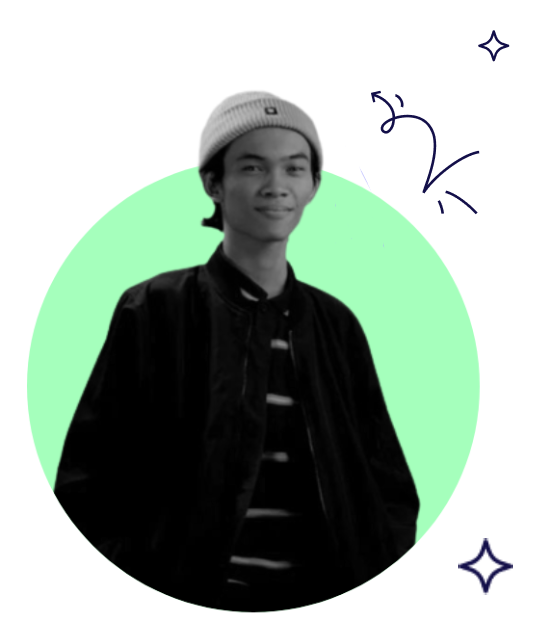
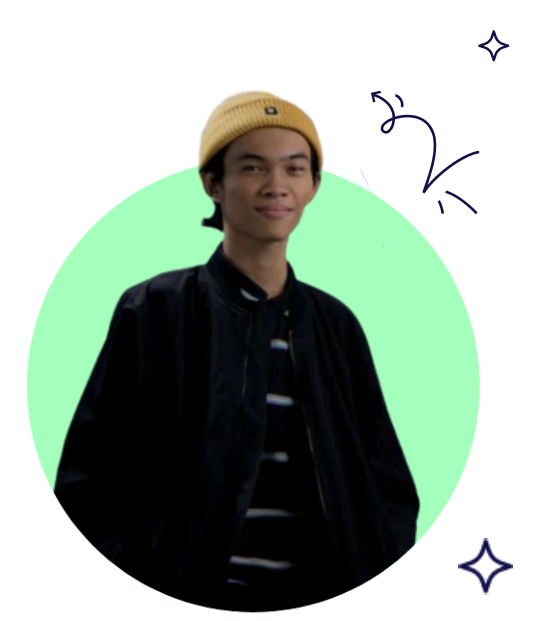
feat: dynamically about page and make toast in contact email

Changed region(s): [[0.3431, 0.1224, 0.5927, 0.4895], [0.4991, 0.6425, 0.5303, 0.6731]]

diff --git a/pages/about.js b/pages/about.js
@@ -2,11 +2,28 @@ import Section from "@/components/section";
 import DefaulTemplate from "@/components/templates/defaults";
 import { Inter } from "next/font/google";
 import Link from "next/link";
+import moment from "moment";
+import { useEffect, useState } from "react";
+import { getAbout, getSettings } from '@/data/singleData';
 
 const inter = Inter({ subsets: ['greek'] })
 
 export default function About()
 {
+    const [setting, setSetting] = useState({})
+    const [about, setAbout] = useState({})
+    useEffect(() => {
+        (async () => {
+            const resSettings = await getSettings();
+            const settings = resSettings.data.data;
+            setSetting(settings.attributes)
+
+            const resAbouts = await getAbout();
+            const abouts    = resAbouts.data.data;
+            setAbout(abouts.attributes);
+        })()
+    }, []);
+
     return <DefaulTemplate page="about" themeColor="white">
         <Section sectionType="white">
             <div className={"grid lg:grid-cols-12 gap-8 mb-[100px] " +  inter.className}>
@@ -17,10 +34,10 @@ export default function About()
                     <Link href={'/contact'} className="btn btn-primary">Got a project</Link>
                 </div>
                 <div className="col-span-6 grid gap-[2rem]">
-                    <p>Hello there! My name is Wikla Pandu. I am a Full-stack Developer & Backend Developer, and I{"'"}m very passionate and dedicated to my work.</p>
-                    <p>
-                    With {"2+"} years experience as a professional a graphic designer, I have acquired the skills and knowledge necessary to make your project a success. I enjoy every step of the design process, from discussion and collaboration.
-                    </p>
+                    {about?.description?.toString().split('\n').map((text, key) => {
+                        text = text.replace('{yearExperience}', moment().diff(moment('2020'), 'year') + '+ years');
+                        return <p key={key}>{text}</p>
+                    })}
                     <table className="table max-xl:hidden">
                         <thead>
                             <tr className="underline uppercase">
@@ -32,11 +49,11 @@ export default function About()
                         </thead>
                         <tbody className="font-bold">
                             <tr>
-                                <td>Jogja</td>
-                                <td>wiklapandu2503@gmail.com</td>
-                                <td>08123123</td>
+                                <td>{setting?.baseIn}</td>
+                                <td>{setting?.email}</td>
+                                <td>{setting?.phone}</td>
                                 <td>
-                                    English, Indonesia, Java
+                                    {setting?.language}
                                 </td>
                             </tr>
                         </tbody>
@@ -45,7 +62,7 @@ export default function About()
             </div>
             <div className="grid lg:grid-cols-3 gap-8">
                 <div className="text-center bg-primary py-[60px]">
-                    <span className="block font-bold text-[40px]">3+</span>
+                    <span className="block font-bold text-[40px]">{moment().diff(moment('2020'), 'year')}+</span>
                     <p className="text-[18px] font-medium">YEARS OF EXPERIENCES</p>
                 </div>
                 <div className="text-center bg-dark text-white py-[60px]">
@@ -66,30 +83,24 @@ export default function About()
                 </div>
             </div>
             <div className="grid lg:grid-cols-2 gap-8">
-                <div className="card min-h-[20vh]">
-                    <div className="card-body">
-                        <div className="flex font-medium">
-                            <span className="text-orange-500">2023 - Now</span>
-                            <span className="text-dark_text_secondary ml-auto">- MADEINDONESIA, Jogja</span>
+                {about?.experiences?.map((experience, key) => {
+                    const signIn = moment(experience?.signIn).format('YYYY');
+                    const resign = experience.resign ? moment(experience?.resign).format('YYYY') : 'Now';
+                    return (
+                        <div key={key} className="card min-h-[20vh]">
+                            <div className="card-body">
+                                <div className="flex font-medium">
+                                    <span className="text-orange-500">{signIn} - {resign}</span>
+                                    <span className="text-dark_text_secondary ml-auto">- {experience?.location}</span>
+                                </div>
+                                <h3 className="font-bold text-dark text-[18px] mb-4">{experience?.roleTitle}</h3>
+                                <p className="text-dark_text_secondary text-[18px] leading-[28px]">
+                                {experience?.description}
+                                </p>
+                            </div>
                         </div>
-                        <h3 className="font-bold text-dark text-[18px] mb-4">Back end Developer</h3>
-                        <p className="text-dark_text_secondary text-[18px] leading-[28px]">
-                        A backend developer is a software engineer who specializes in building and maintaining the server-side components of applications and websites. They work on databases, server logic, and APIs to ensure data processing, security, and performance, enabling seamless interaction between users and the application{"'"}s frontend.
-                        </p>
-                    </div>
-                </div>
-                <div className="card min-h-[20vh]">
-                    <div className="card-body">
-                        <div className="flex font-medium">
-                            <span className="text-orange-500">2022 - 2023</span>
-                            <span className="text-dark_text_secondary ml-auto">- TOOMBOO, Bali</span>
-                        </div>
-                        <h3 className="font-bold text-dark text-[18px] mb-4">Junior Developer</h3>
-                        <p className="text-dark_text_secondary text-[18px] leading-[28px]">
-                        A junior developer is an entry-level software developer who is at the beginning of their career. They typically work under the guidance of more experienced developers or team leads, learning and gaining practical experience in coding, debugging, and collaborating on software projects. Junior developers are often involved in tasks such as writing code, testing, and assisting with various aspects of software development while they build their skills and expertise in the field.
-                        </p>
-                    </div>
-                </div>
+                    )
+                })}
             </div>
         </Section>
     </DefaulTemplate>

diff --git a/components/templates/defaults.js b/components/templates/defaults.js
@@ -5,6 +5,7 @@ import Link from "next/link";
 import Head from "next/head";
 import { useState } from "react";
 import Drawer from "../drawer";
+import { ToastContainer, toast } from "react-toastify";
 
 export default function DefaulTemplate({children, page = 'home', themeColor = 'primary'})
 {
@@ -25,7 +26,7 @@ export default function DefaulTemplate({children, page = 'home', themeColor = 'p
             </div>
             <ul className="navs-link">
                 <li className={(page == 'home') ? "active" : ''}>
-                    <Link href="/">Home</Link>
+                    <Link href={"/"}>Home</Link>
                 </li>
                 <li className={(page == 'about') ? 'active' : ''}><Link href="/about">About</Link></li>
                 <li className={(page == 'services') ? 'active' : ''}><Link href="/services">Services</Link></li>
@@ -38,7 +39,7 @@ export default function DefaulTemplate({children, page = 'home', themeColor = 'p
             <div className="md:col-span-3 md:block hidden border-r border-gray-300 bg-white">
                 <div className="text-center min-h-screen">
                     <div className="image pt-[60px]">
-                        <Image src={'/imgs/1.jpg'} width={150} height={150} className="rounded-full border-4 border-light_text mx-auto mb-4" alt="img"/>
+                        <Image src={'/imgs/profile.png'} width={150} height={150} className="rounded-full border-4 border-light_text mx-auto mb-4" alt="img"/>
                         <h3 className="block text-[30px] font-bold">Wikla Pandu</h3>
                     </div>
                     <ul className="navs-link">
@@ -76,6 +77,7 @@ export default function DefaulTemplate({children, page = 'home', themeColor = 'p
                 {children}
             </div>
         </div>
+        <ToastContainer position={toast.POSITION.BOTTOM_LEFT}/>
         <AnimatedCursor
         innerSize={8}
         outerSize={35}
@@ -84,10 +86,10 @@ export default function DefaulTemplate({children, page = 'home', themeColor = 'p
         outerAlpha={0}
         hasBlendMode={true}
         innerStyle={{
-            backgroundColor: colorSetting.secondary
+            backgroundColor: colorSetting.light_text
           }}
           outerStyle={{
-            border: '3px solid ' + colorSetting.secondary,
+            border: '3px solid ' + colorSetting.light_text,
           }}
           showSystemCursor={true}
         />

diff --git a/components/drawer.js b/components/drawer.js
@@ -1,17 +1,15 @@
-import Image from "next/image";
-import { useState } from "react"
-
-export default function Drawer({children, className, isOpen, onClose})
+export default function Drawer({children, className = '', isOpen, onClose})
 {
+    const drawerFuncClass = isOpen ? 'animate-navbarSlideOpen translate-x-0' : 'animate-navbarSlideClose -translate-x-full';
     return (
         <>
-            <div className={"md:hidden w-[50vw] z-50 flex min-h-screen bg-white shadow-xl fixed top-0 left-0 " + (isOpen ? 'animate-navbarSlideOpen translate-x-0' : 'animate-navbarSlideClose -translate-x-full')}>
+            <div className={"md:hidden w-[50vw] z-50 flex min-h-screen bg-white shadow-xl fixed top-0 left-0 " + drawerFuncClass}>
                 <div className="w-2/3 mx-auto m-4">
                     <div className="flex justify-between items-end text-dark mb-12">
                         <div>
                             <h3 className="text-2xl font-medium">Menu</h3>
                         </div>
-                        <button type="button" className="text-2xl hover:scale-95" onClick={() => onClose(!isOpen)}>
+                        <button type="button" className={"text-2xl hover:scale-95"} onClick={() => onClose(!isOpen)}>
                             <svg
                                 xmlns="http://www.w3.org/2000/svg"
                                 width={24}
@@ -30,7 +28,7 @@ export default function Drawer({children, className, isOpen, onClose})
                     </div>
                 </div>
             </div>
-            <div className={(isOpen && "min-w-screen animate-galleryOpacity bg-black bg-opacity-50 absolute top-0")}></div>
+            <div className={isOpen ? "min-w-screen animate-galleryOpacity bg-black bg-opacity-50 absolute top-0" : ''}></div>
         </>
     )   
 }

diff --git a/pages/index.js b/pages/index.js
@@ -3,6 +3,8 @@ import { Inter } from "next/font/google";
 import DefaulTemplate from "@/components/templates/defaults";
 import Section from "@/components/section";
 import Link from "next/link";
+import { TypeAnimation } from "react-type-animation";
+import moment from "moment";
 
 const inter = Inter({ subsets: ["greek"] });
 
@@ -19,13 +21,25 @@ export default function Home() {
             <div className="title text-[3.5rem] font-bold">
               <h1 className="leading-[3.5rem] text-dark_text">
                 Hi, I{"'"}m <span className="text-light_text">Wikla!</span>
-                <span className="block">Web Developer</span>
+                <span className="block">
+                  <TypeAnimation 
+                  sequence={[
+                    'Backend Developer',
+                    1000,
+                    'And',
+                    500,
+                    'Web Developer',
+                    1000,
+                  ]}
+                  cursor={true}
+                  />
+                </span>
                 <span className="block">Based in Jogja</span>
               </h1>
             </div>
             <p className="my-6 text-dark_text_secondary text-[18px] md:max-w-[400px]">
               I{"'"}m a Jogja, Indonesia based web developer & back{"‑"}end
-              developer with <span className="text-light_text">2+ years</span>{" "}
+              developer with <span className="text-light_text">{moment().diff(moment('2020'), 'years')}+ years</span>{" "}
               of experience
             </p>
             <div className="button-group flex gap-3 mb-[100px]">

diff --git a/components/contact.js b/components/contact.js
@@ -1,5 +1,6 @@
 import { SendContact } from "@/controllers/contact";
 import { useState } from "react";
+import { toast } from "react-toastify";
 
 export default function ContactForm() {
   const [subject, setSubject] = useState('');
@@ -11,7 +12,15 @@ export default function ContactForm() {
   return (
     <form className="lg:w-[50%]" onSubmit={(event) => {
       event.preventDefault();
-      SendContact({subject, email, content, name}, setAlert);
+      const sendMail = SendContact({subject, email, content, name}, setAlert);
+      toast.promise(
+        sendMail,
+        {
+          error: alert.message,
+          pending: '👌 loading....',
+          success: alert.message,
+        }
+      )
       if(alert?.status == 'success') {
         setSubject('')
         setEmail('')

diff --git a/controllers/contact.js b/controllers/contact.js
@@ -1,17 +1,16 @@
 import { ajaxCallPost } from '@/data/func/api';
 
 export const SendContact = (data, setAlert) => {
-    ajaxCallPost('/email', {
+    return ajaxCallPost('/email', {
         subject: data.subject,
         email: data.email,
         name: data.name,
         content: data.content
     }, process.env.TOKEN_MAIL).then((res) => {
-        console.log('result:', res);
         // setError(res);
-        setAlert({status: 'success', message: 'success sending message'})
+        setAlert({status: 'success', message: 'success sending message🤩'})
     }).catch((xhr) => {
-        setAlert({status: 'danger', message: 'woups something wrong'})
+        setAlert({status: 'danger', message: 'Woups! Failed sending email.😐'})
         console.log('error:', xhr)
     })
 }

diff --git a/data/func/api.js b/data/func/api.js
@@ -1,7 +1,18 @@
 import axios from "axios";
 
-export const ajaxCallGet = (url) => {
-    return axios.get(`${process.env.api_url}${url}`);
+export const ajaxCallGet = (url, token, args = {}) => {
+    let headers = {
+        'Authorization': token ? `Bearer ${token}` : ''
+    };
+
+    let data = {
+        headers: {
+            ...headers,
+            ...args.headers
+        }
+    };
+
+    return axios.get(`${process.env.api_url}${url}`, data);
 }
 
 export const ajaxCallPost = (url, data, token) => {

diff --git a/next.config.js b/next.config.js
@@ -4,6 +4,7 @@ const nextConfig = {
   env: {
     api_url: process.env.API_URL,
     url: process.env.URL,
+    TOKEN_PUBLIC: process.env.TOKEN_PUBLIC,
     email_host: process.env.EMAIL_HOST,
     email_port: process.env.EMAIL_PORT,
     email_user: process.env.EMAIL_USER,

diff --git a/data/singleData.js b/data/singleData.js
@@ -1,0 +1,9 @@
+import { ajaxCallGet } from "./func/api";
+
+export const getSettings = () => {
+    return ajaxCallGet('/setting', process.env.TOKEN_PUBLIC)   
+}
+
+export const getAbout = () => {
+    return ajaxCallGet('/about?populate=*', process.env.TOKEN_PUBLIC)
+}

diff --git a/pages/_app.js b/pages/_app.js
@@ -1,4 +1,5 @@
 import '@/styles/globals.css'
+import 'react-toastify/dist/ReactToastify.css';
 
 export default function App({ Component, pageProps }) {
   return <Component {...pageProps} />
